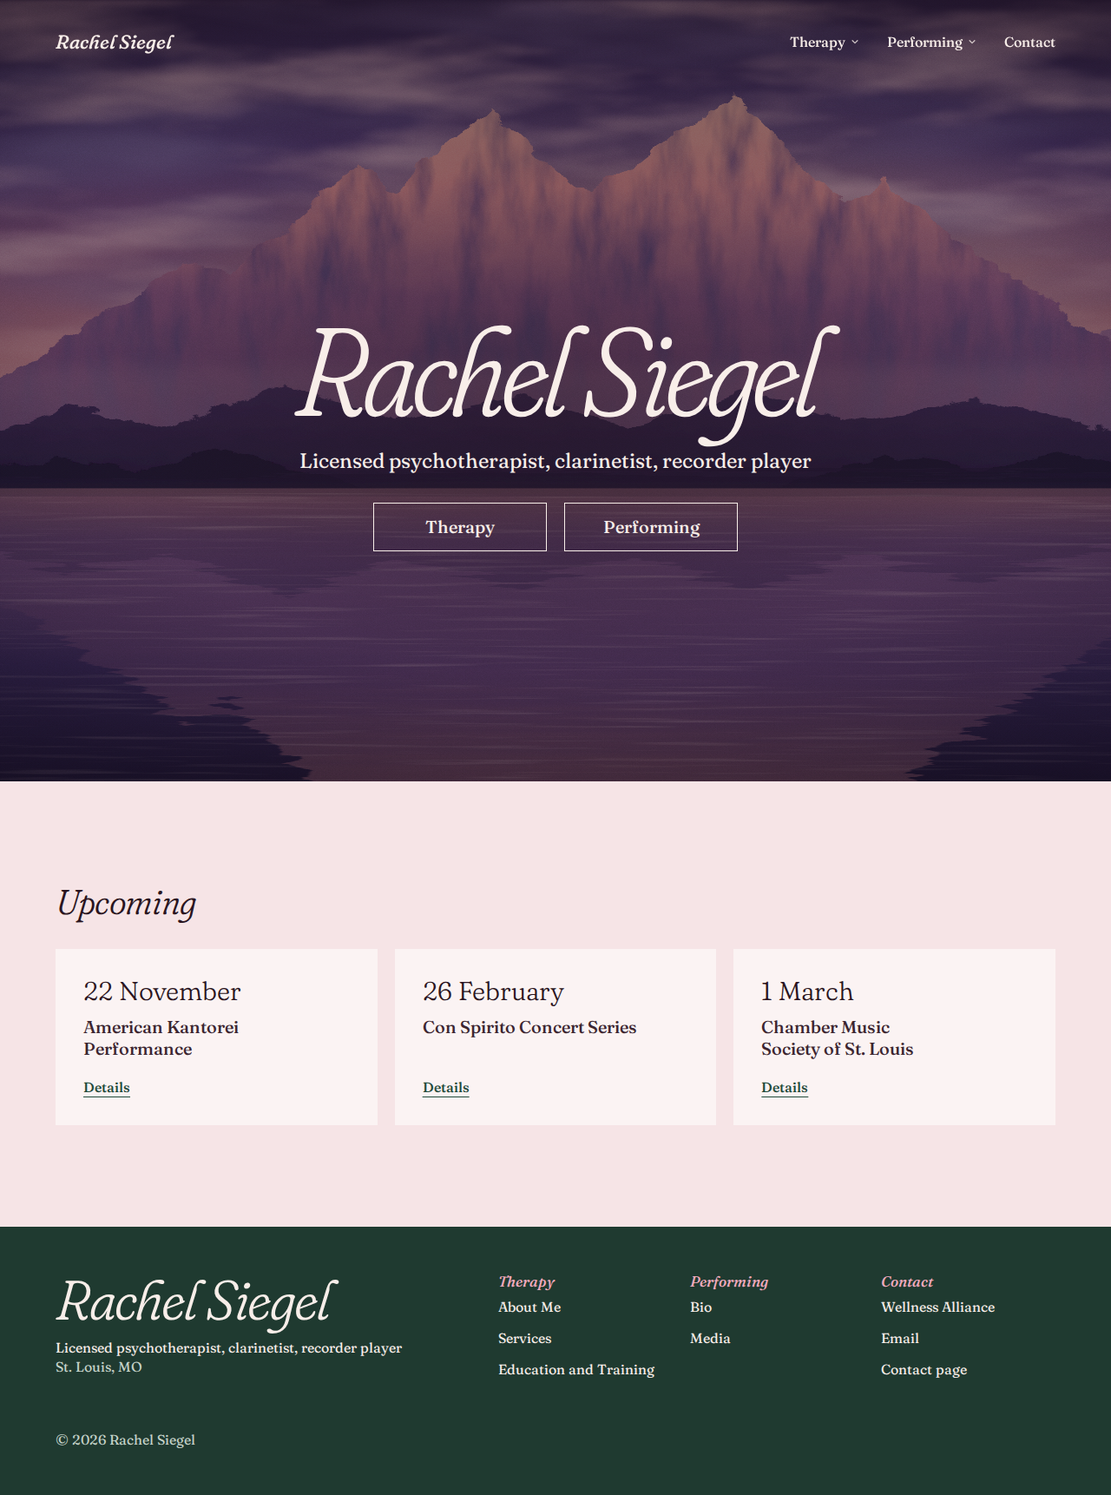
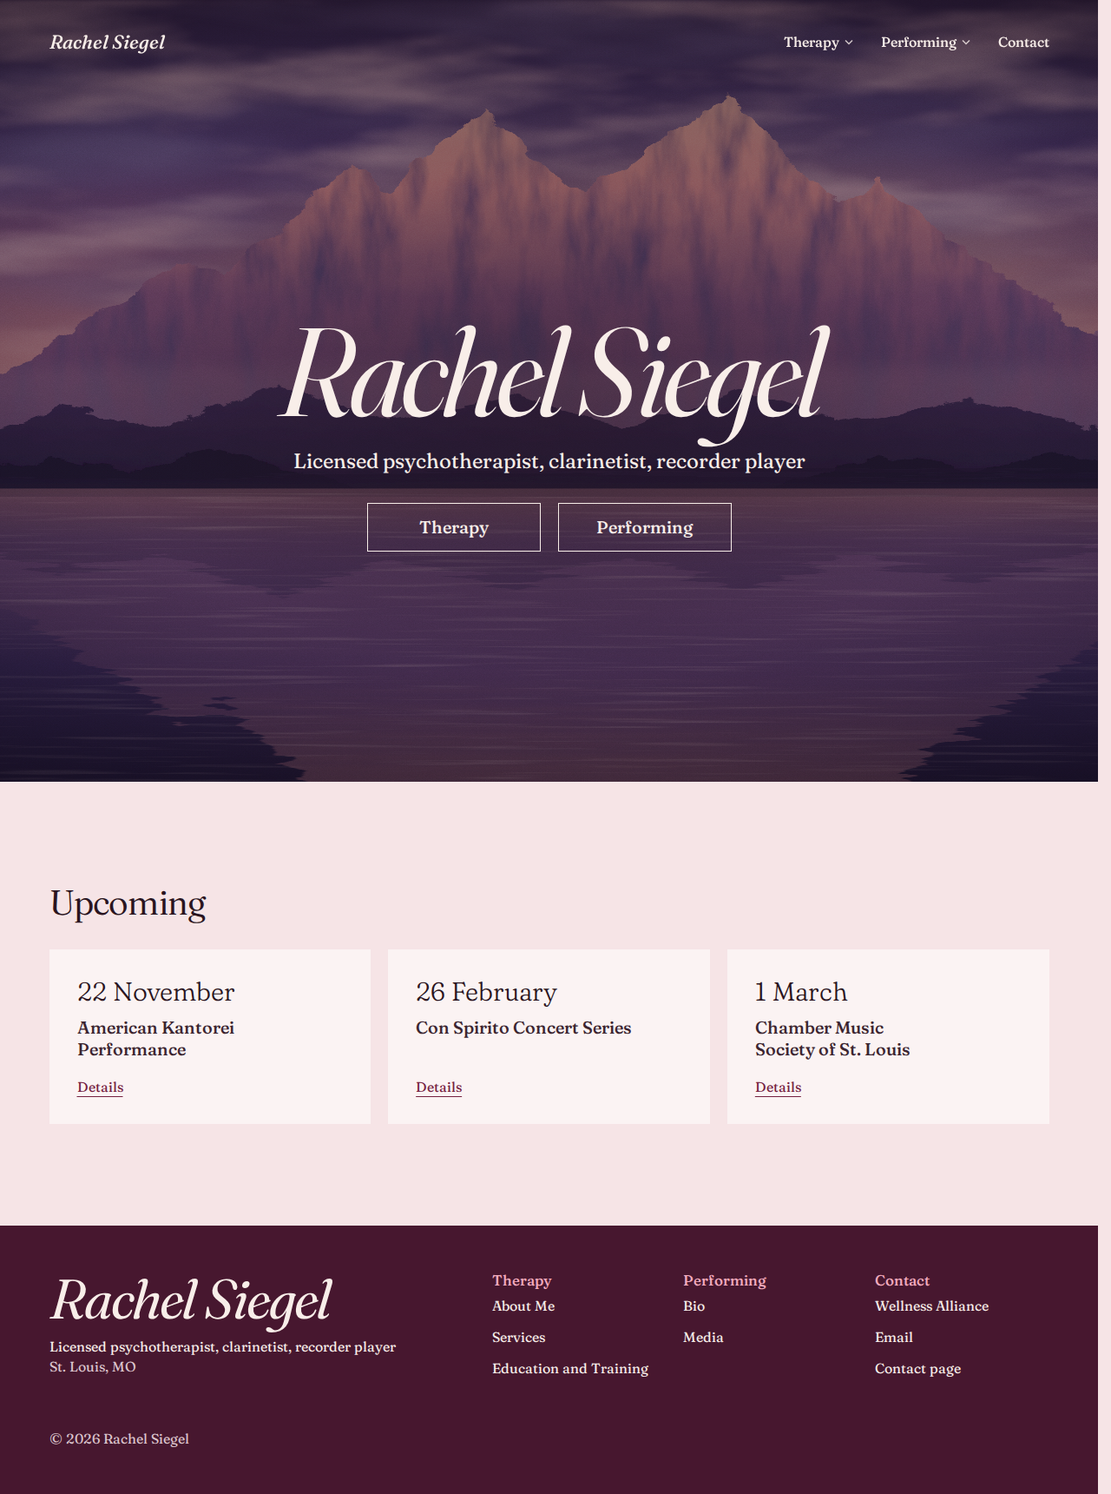
Design direction: Mauve & wine (Playtest #62 tuning)
The human picked Mauve and wine from three live palettes: no green left,
calmer italics (WONK 0, SOFT 0, italic only for the name, leads and pull
quote), and a hairline in place of the dotted rule.

diff --git a/docs/design.md b/docs/design.md
@@ -1,13 +1,13 @@
 # Design reference
 
-The design of Spec #26, "Blossom, one layout": chosen by the human from live prototypes, built by the Editor, and checked by the Verifier. Each Build Brief cites the sections its slice builds, and its values are exact. A slice that needs a value this file doesn't give asks the Driver, who adds it here, rather than inventing one. The Board in `docs/design/board/` shows Home and About Me at 390 and 1280 px, light and dark.
+The design of Spec #26, "Blossom, one layout", with the palette, italics and separator the human chose in Playtest #62 ("Mauve and wine"): chosen by the human from live prototypes, built by the Editor, and checked by the Verifier. Each Build Brief cites the sections its slice builds, and its values are exact. A slice that needs a value this file doesn't give asks the Driver, who adds it here, rather than inventing one. The Board in `docs/design/board/` shows Home and About Me at 390 and 1280 px, light and dark.
 
 Principles, in order:
 
 1. **One layout.** Every page is built only from the layout contract (§3): one column, five spacing values, a fixed set of components. No page sets a margin, a padding or a gap of its own. Text never shifts sideways between pages.
 2. **Nothing sits in half a page alone.** The human's rule: "No reason to only be half the page if there isn't another half of the page." A block with nothing beside it fills its column or is centred.
 3. **Readable.** WCAG 2.2 AA in both palettes, a 65ch measure, no one-word lines in labels.
-4. **Soft type, quiet surfaces.** Fraunces alone, soft and partly italic; one evergreen band (the footer); cards that "stand out, but don't pop too much".
+4. **Soft type, quiet surfaces.** Fraunces alone, soft, italic only for the name, the leads and the pull quote; one wine band (the footer); cards that "stand out, but don't pop too much".
 5. **Honest.** No decoration that carries no information: no eyebrows, no arrows on links, no scroll reveals.
 
 ## 1. Colour tokens
@@ -16,72 +16,72 @@ CSS custom properties on `:root`, each written with `light-dark(<light>, <dark>)
 
 | Token | Light | Dark | Use |
 |---|---|---|---|
-| `bg` | `#f6e4e6` | `#17302a` | page background |
-| `surface` | `#fbf3f3` | `#1e3b33` | Upcoming cards, pull quote, dropdown panel, form fields |
-| `tint` | `#eed3d7` | `#27483f` | list panel, hover fill of cards and dropdown items |
+| `bg` | `#f6e4e6` | `#24131c` | page background |
+| `surface` | `#fbf3f3` | `#2f1b26` | Upcoming cards, pull quote, dropdown panel, form fields |
+| `tint` | `#eed3d7` | `#3d2431` | list panel, hover fill of cards and dropdown items |
 | `ink` | `#3b2530` | `#eadfd9` | body text |
 | `heading` | `#2a1420` | `#f7eee9` | headings, leads, the page-ground button |
-| `muted` | `#6a525d` | `#b9c4bc` | captions, "Coming soon", "(required)" |
-| `link` | `#1f4a3a` | `#f7eee9` | links in copy |
-| `accent` | `#2b6044` | `#f2abbe` | current-nav underline, focus ring, list bullets, mobile-menu group labels |
+| `muted` | `#6a525d` | `#c6b3ba` | captions, "Coming soon", "(required)" |
+| `link` | `#75203f` | `#f7dce4` | links in copy |
+| `accent` | `#853a62` | `#f2abbe` | current-nav underline, focus ring (outside the hero and the footer), list bullets, mobile-menu group labels |
 | `error` | `#8f1836` | `#ffb4c0` | form error text and invalid-field border |
-| `ornament` | `#d98fa3` | `#5e8a6f` | the dotted rule, the photo frame's line (decorative, never text) |
-| `line` | `#e3c9ce` | `#2c4a41` | hairlines: rows, the scrolled header's edge (decorative) |
-| `line-strong` | `#8f7480` | `#7fa091` | outlines of controls: form fields, dropdown panel (needs 3:1) |
-| `band` | `#1f3a30` | `#0f231d` | the footer band |
-| `on-band` | `#f8eee9` | `#f8eee9` | text on `band` |
-| `on-band-muted` | `#c5d3c9` | `#c5d3c9` | secondary text on `band` |
+| `ornament` | `#c98aa6` | `#8b5a72` | the hairline under a lead, the photo frame's line (decorative, never text) |
+| `line` | `#e3c9ce` | `#42293a` | hairlines: rows, the scrolled header's edge (decorative) |
+| `line-strong` | `#8f7480` | `#a78895` | outlines of controls: form fields, dropdown panel (needs 3:1) |
+| `band` | `#47172f` | `#47172f` | the footer band: wine, the same in both schemes |
+| `on-band` | `#f8eee9` | `#f8eee9` | text on `band`, and the focus ring in the footer |
+| `on-band-muted` | `#dcc5cd` | `#dcc5cd` | secondary text on `band` |
 | `band-accent` | `#f2abbe` | `#f2abbe` | footer column labels |
 | `plum` | `#24121c` | `#24121c` | the hero's ground and scrim colour, hover text of hero buttons |
 | `on-image` | `#f8eee9` | `#f8eee9` | text and outlines over the hero image and video stills |
-| `poster` | `#1f3a30` | `#1f3a30` | ground behind a video still while it loads |
+| `poster` | `#47172f` | `#47172f` | ground behind a video still while it loads |
 
 Measured WCAG 2.x ratios (each must stay at or above "Needs"):
 
 | Pair | Light | Dark | Needs |
 |---|---|---|---|
-| `ink` on `bg` / `surface` / `tint` | 11.5 / 12.9 / 10.0 | 10.8 / 9.3 / 7.7 | 4.5 |
-| `heading` on `bg` / `surface` / `tint` | 14.1 / 15.8 / 12.2 | 12.3 / 10.6 / 8.8 | 4.5 |
-| `muted` on `bg` / `surface` | 5.8 / 6.5 | 7.8 / 6.8 | 4.5 |
-| `link` on `bg` / `surface` | 8.2 / 9.2 | 12.3 / 10.6 | 4.5 |
-| `accent` on `bg` / `surface` / `tint` | 6.0 / 6.7 / 5.2 | 7.6 / 6.6 / 5.4 | 4.5 (text), 3 (ring, bullets) |
-| `error` on `bg` / `surface` | 7.3 / 8.2 | 8.4 / 7.3 | 4.5 |
-| `bg` on `heading` (button hover, carousel arrows) | 14.1 | 12.3 | 4.5 |
-| `on-band` / `on-band-muted` / `band-accent` on `band` | 10.8 / 7.9 / 6.6 | 14.4 / 10.6 / 8.9 | 4.5 |
+| `ink` on `bg` / `surface` / `tint` | 11.5 / 12.9 / 10.0 | 13.5 / 12.3 / 10.7 | 4.5 |
+| `heading` on `bg` / `surface` / `tint` | 14.1 / 15.8 / 12.2 | 15.5 / 14.1 / 12.3 | 4.5 |
+| `muted` on `bg` / `surface` | 5.8 / 6.5 | 8.9 / 8.1 | 4.5 |
+| `link` on `bg` / `surface` | 8.4 / 9.4 | 13.8 / 12.5 | 4.5 |
+| `accent` on `bg` / `surface` / `tint` | 6.2 / 6.9 / 5.4 | 9.6 / 8.7 / 7.6 | 4.5 (text), 3 (ring, bullets) |
+| `error` on `bg` / `surface` | 7.3 / 8.2 | 10.6 / 9.6 | 4.5 |
+| `bg` on `heading` (button hover, carousel arrows) | 14.1 | 15.5 | 4.5 |
+| `on-band` / `on-band-muted` / `band-accent` on `band` | 12.9 / 9.0 / 7.9 | 12.9 / 9.0 / 7.9 | 4.5 |
 | `on-image` on `plum` | 15.6 | 15.6 | 4.5 |
-| `line-strong` on `bg` / `surface` | 3.4 / 3.9 | 4.9 / 4.2 | 3 |
+| `line-strong` on `bg` / `surface` | 3.4 / 3.9 | 5.6 / 5.1 | 3 |
 
 Rules:
 - Text uses only `ink`, `heading`, `muted`, `link`, `accent` or `error` on `bg`, `surface` or `tint`; `on-band`, `on-band-muted` or `band-accent` on `band`; `on-image` over the hero and video stills. No other pairing, and no opacity on text.
-- `ornament` and `line` are decorative only (`ornament` on `bg` is 2.0:1 in light): never text, never the only sign of a state.
+- `ornament` and `line` are decorative only (`ornament` on `bg` is 2.2:1 in light, 3.2:1 in dark): never text, never the only sign of a state.
 - **Hero scrim.** Two layers over the image, both in `plum` (`rgb(36 18 28)`): `radial-gradient(ellipse 75% 55% at 50% 52%, rgb(36 18 28 / 0.42), transparent 100%)` above `linear-gradient(to bottom, rgb(36 18 28 / 0.6) 0%, rgb(36 18 28 / 0.3) 24%, rgb(36 18 28 / 0.3) 100%)`. Every piece of text and every control over the image (brand, nav labels, menu button, name, tagline, both buttons) must reach 4.5:1 against the lightest pixel behind its box, scrim included, at 390×844, 768×1024, 1280×900 and 1920×1080. Measured on the placeholder: lowest 5.49 (a nav label at 1920), the name 7.89–8.58, the tagline 7.48–13.87, the buttons 7.03–8.22. A new hero photo is re-measured; if it fails, the scrim darkens, the text does not change.
 - The token test (#27) computes every pair above from the CSS and fails under its minimum.
 
 ## 2. Typography
 
-One family: **Fraunces**, variable on `opsz`, `wght`, `SOFT` (0–100) and `WONK`, upright and italic, from `src/app/fonts`. `font-optical-sizing: auto` (no `opsz` set by hand). Copy is set at `"SOFT" 60`; display type at `"SOFT" 100`. Source Sans 3 is not used. Fallback stack: `Georgia, serif`.
+One family: **Fraunces**, variable on `opsz`, `wght`, `SOFT` (0–100) and `WONK`, upright and italic, from `src/app/fonts`. `font-optical-sizing: auto` (no `opsz` set by hand). Copy is set at `"SOFT" 60`; upright display type (`h1`, `event-date`, `sheet-link`) at `"SOFT" 100`; the italic roles and `h2` at `"SOFT" 0, "WONK" 0`. Every italic sets `"WONK" 0`, so none shows the font's swashed forms (the curled "h"). Italic is kept for the name (`display`, `brand`, `footer-name`), the lead, the pull quote and a `cite`; nothing else is italic. Source Sans 3 is not used. Fallback stack: `Georgia, serif`.
 
 | Role | Size | Style, weight, axes | Line height | Tracking | Colour |
 |---|---|---|---|---|---|
-| `display` (Home `h1`) | `clamp(3.75rem, 1.5rem + 9.4vw, 9.5rem)` | italic 300, `"SOFT" 100` | 0.92 | -0.035em | `on-image` |
+| `display` (Home `h1`) | `clamp(3.75rem, 1.5rem + 9.4vw, 9.5rem)` | italic 380, `"SOFT" 0, "WONK" 0` | 0.92 | -0.035em | `on-image` |
 | `h1` (page title) | `clamp(3rem, 1.7rem + 5.4vw, 6rem)` | upright 300, `"SOFT" 100, "WONK" 1` | 1 | -0.03em | `heading` |
-| `h2` (section heading) | `clamp(1.75rem, 1.3rem + 1.9vw, 2.5rem)` | italic 300, `"SOFT" 100` | 1.1 | -0.02em | `heading` |
-| `lead` (statement) | `clamp(1.375rem, 1.15rem + 1vw, 2rem)` | italic 300, `"SOFT" 100` | 1.3 | 0 | `heading` |
-| `quote` (pull quote) | `clamp(1.5rem, 1.1rem + 3.2cqi, 3rem)`, `cqi` of the quote's own box | italic 300, `"SOFT" 100` | 1.14 | -0.02em | `heading` |
+| `h2` (section heading) | `clamp(1.75rem, 1.3rem + 1.9vw, 2.5rem)` | upright 350, `"SOFT" 0, "WONK" 0` | 1.1 | -0.02em | `heading` |
+| `lead` (statement) | `clamp(1.375rem, 1.15rem + 1vw, 2rem)` | italic 380, `"SOFT" 0, "WONK" 0` | 1.3 | 0 | `heading` |
+| `quote` (pull quote) | `clamp(1.5rem, 1.1rem + 3.2cqi, 3rem)`, `cqi` of the quote's own box | italic 380, `"SOFT" 0, "WONK" 0` | 1.14 | -0.02em | `heading` |
 | `body` | `clamp(1.0625rem, 1rem + 0.3vw, 1.1875rem)` | upright 400, `"SOFT" 60` | 1.7 | 0 | `ink` |
 | `list`, `rows` | body size | upright 400, `"SOFT" 60` | 1.4 | 0 | `ink` (`heading` in the panel) |
 | `card-title` (event and video titles) | `1.25rem` | upright 500, `"SOFT" 60` | 1.25 | 0 | `ink` in an event card, `heading` under a video |
 | `event-date` | `1.875rem` | upright 300, `"SOFT" 100`, `font-variant-numeric: lining-nums` | 1.1 | 0 | `heading` |
 | `hero-tag` | `clamp(1.1875rem, 1.05rem + 0.6vw, 1.5rem)` | upright 400, `"SOFT" 60` | 1.4 | 0 | `on-image` |
 | `button` (hero buttons, Send) | `1.25rem` | upright 500, `"SOFT" 60` | 1 | 0 | see §5 |
-| `brand` (header) | `1.375rem` | italic 500, `"SOFT" 100` | 1 | 0 | `heading`, `on-image` over the hero |
+| `brand` (header) | `1.375rem` | italic 500, `"SOFT" 0, "WONK" 0` | 1 | 0 | `heading`, `on-image` over the hero |
 | `nav` (tabs), dropdown items | `1rem` | upright 500 (tabs), 400 (items), `"SOFT" 60` | 1 | 0 | `heading` (tabs), `ink` (items) |
 | `sheet-link` (mobile menu) | `2rem` | upright 300, `"SOFT" 100` | 1.1 | 0 | `heading` |
-| `label` (footer column, mobile-menu group) | `1.0625rem` | italic 500, `"SOFT" 60` | 1.3 | 0 | `band-accent` in the footer, `accent` in the menu |
-| `footer-name` | `clamp(2.5rem, 1.8rem + 3vw, 4rem)` | italic 300, `"SOFT" 100` | 1 | -0.03em | `on-band` |
+| `label` (footer column, mobile-menu group) | `1.0625rem` | upright 500, `"SOFT" 60, "WONK" 0` | 1.3 | 0 | `band-accent` in the footer, `accent` in the menu |
+| `footer-name` | `clamp(2.5rem, 1.8rem + 3vw, 4rem)` | italic 380, `"SOFT" 0, "WONK" 0` | 1 | -0.03em | `on-band` |
 | `small` (footer text, captions, event place, error text, Details link) | `1rem` | upright 400 (error text 500) | 1.4 | 0 | per context |
 
-Links in copy: `link` colour, weight 500, `text-decoration: underline; text-decoration-thickness: 1px; text-underline-offset: 0.3em`; hover thickness 2px. A link inside a lead keeps the lead's weight (300).
+Links in copy: `link` colour, weight 500, `text-decoration: underline; text-decoration-thickness: 1px; text-underline-offset: 0.3em`; hover thickness 2px. A link inside a lead keeps the lead's weight (380).
 
 **Wrapping rules** (the human called wrapping out; each is checked, §3):
 
@@ -140,7 +140,7 @@ Every page is built only from these. Each carries its data attribute, which the 
 | **Switcher** | `data-switcher="pair"` / `"label"` / `"run"` | Exactly two children, each in a `div`: `display: grid; grid-template-columns: repeat(auto-fit, minmax(min(100%, var(--switch-min)), 1fr)); column-gap: var(--space-block)`. Two equal halves or one column, never a half-empty row. `pair`: two blocks, `row-gap: var(--space-block)` when stacked. `label`: a SectionHeading beside its content, no row gap (stacked, the heading's own space is the gap). `run`: one passage of copy in two halves, `row-gap: var(--space-flow)` when stacked. |
 | **Center** | `data-center` | One centred column: `inline-size: 100%; max-inline-size: var(--measure); margin-inline: auto; text-align: center`. For a page with nothing to set beside its copy. |
 | **Prose** | `data-prose="start"` / `"center"` | Running copy: `max-inline-size: var(--measure)`; children separated by `margin-block-start: var(--space-flow)`; paragraphs `text-wrap: wrap`, last two words tied. `center` adds `inline-size: 100%; margin-inline: auto; text-align: center`, for copy with nothing beside it. |
-| **Lead** | `data-lead` | A statement in `lead` type, last two words tied; optionally the dotted rule under it (§5). |
+| **Lead** | `data-lead` | A statement in `lead` type, last two words tied; optionally the hairline under it (§5). |
 | **PullQuote** | `data-quote` | The site's one quote style (§5). |
 | **Photo** | `data-photo` | The one photo slot (§5). It fills the Sidebar's slot and stays inside the column. |
 | **List** | `data-list="plain"` / `"panel"` | Bulleted list (§5). |
@@ -185,7 +185,7 @@ There is very little, and none of it is triggered by scrolling into view.
 
 ## 5. Components
 
-**Focus ring.** `outline: 2px solid var(--accent); outline-offset: 3px`, on `:focus-visible` only. Over the hero (including the header while it is transparent) and in the footer the ring is `on-image`. Inside the dropdown panel it is `accent` with `outline-offset: -3px`, so it is never clipped and never overlaps the next item; on the Upcoming row, `outline-offset: -2px`.
+**Focus ring.** `outline: 2px solid var(--accent); outline-offset: 3px`, on `:focus-visible` only. Over the hero (including the header while it is transparent) the ring is `on-image`; in the footer it is `on-band`. Inside the dropdown panel it is `accent` with `outline-offset: -3px`, so it is never clipped and never overlaps the next item; on the Upcoming row, `outline-offset: -2px`.
 
 **Buttons.** Square, `1px` outline, transparent fill, `button` type, `block-size: 3.5rem`, text centred, no padding (fixed width).
 - *Hero button* (on the image): outline and text `on-image`; hover fills `on-image` with `plum` text. Width: `flex: 0 0 12.5rem` from 30rem (480 px); below, `flex: 1 1 0; max-inline-size: 12.5rem`, so the two share the row.
@@ -194,9 +194,9 @@ There is very little, and none of it is triggered by scrolling into view.
 - *Carousel arrow:* see §8.
 - No "→" or "↗" on any link or button.
 
-**Lead and the dotted rule.** A `p` in `lead` type. With the rule (About Me only): under the text, `margin-block-start: var(--space-flow)`, an inline SVG `132 × 12`, `aria-hidden`, filled `ornament`: the recorder's finger holes as circles, five of radius 4.25 at x = 6, 24, 42, 62, 80 and four of radius 2.6 at x = 98.5, 105.5, 119.5, 126.5, all at y = 6. Left-aligned with the text.
+**Lead and the hairline.** A `p` in `lead` type. With the hairline (About Me only): under the text, `margin-block-start: var(--space-flow)`, one `aria-hidden` block `3.5rem` wide and `1px` tall, filled `ornament`, square ends. Left-aligned with the text. It is a separator and nothing else: no dots, no motif.
 
-**Pull quote.** A `figure`, `container-type: inline-size`, `surface` fill, `--radius`, `padding: var(--space-block) var(--space-heading)`, `text-align: center`. The `blockquote` is in `quote` type, `max-inline-size: 22ch`, centred, balanced, its last two words tied. The `figcaption` follows at `margin-block-start: var(--space-flow)`: `small`, `muted`, balanced; a work's title is in `cite`, italic. No quotation-mark ornament, no dash before the name. It is one component at two widths: across the column (About Me) or in the Sidebar's slot (Services).
+**Pull quote.** A `figure`, `container-type: inline-size`, `surface` fill, `--radius`, `padding: var(--space-block) var(--space-heading)`, `text-align: center`. The `blockquote` is in `quote` type, `max-inline-size: 22ch`, centred, balanced, its last two words tied. The `figcaption` follows at `margin-block-start: var(--space-flow)`: `small`, `muted`, balanced; a work's title is in `cite`, italic, `"SOFT" 60, "WONK" 0`. No quotation-mark ornament, no dash before the name. It is one component at two widths: across the column (About Me) or in the Sidebar's slot (Services).
 
 **Photo.** A `figure`: `padding: var(--space-tight)`, `border: 1.5px solid var(--ornament)`, `border-radius: calc(var(--radius) + var(--space-tight))`. The image inside: `inline-size: 100%`, `aspect-ratio: 3 / 4`, `object-fit: cover`, `object-position: 50% 20%`, `border-radius: var(--radius)`. One ratio and one focal point for every portrait, so swapping a photo is swapping a file; nothing in the design depends on a photo's colours or crop. `sizes="(min-width: 640px) 24rem, 100vw"`.
 
@@ -244,7 +244,7 @@ The page is `skip link, header, main, footer` in a flex column of `min-height: 1
 
 **Mobile menu** (below 48rem). The nav is replaced by an icon button, "Menu" (two horizontal lines). It opens a modal `dialog` filling the window, `bg` fill: a head row the header's height holding the brand and a "Close" icon button, then the links. Both rows sit on the same column as the page (`max-inline-size: var(--content-max); padding-inline: var(--gutter)`); the links block has `padding-block: var(--space-heading) var(--space-block)`. Links, left-aligned, `sheet-link` type, `min-height: 3.5rem`: Home; a group "Therapy" (About Me, Services, Education and Training); a group "Performing" (Bio, Media); Contact. Group names are `label` type in `accent`, groups have `margin-block: var(--space-flow)`. The current page is underlined `2px` in `accent`, offset `0.2em`. Choosing a link closes it; the page behind does not scroll; focus stays in the dialog.
 
-**Footer.** The one evergreen band: `band` fill, `on-band` text, `small` type, `padding-block: var(--space-block)`. In its PageShell, a grid with `gap: var(--space-block)`:
+**Footer.** The one wine band: `band` fill, `on-band` text, `small` type, `padding-block: var(--space-block)`. In its PageShell, a grid with `gap: var(--space-block)`:
 - **Brand:** "Rachel Siegel" in `footer-name`; the tagline "Licensed psychotherapist, clarinetist, recorder player" `var(--space-tight)` below; then "St. Louis, MO" in `on-band-muted`, directly under. Both lines balanced.
 - **Three columns**, each a label in `label` type and `band-accent`, then a plain vertical list of links:
   - Therapy: About Me, Services, Education and Training
@@ -290,7 +290,7 @@ A Section (`aria-labelledby` its heading) on Home, Bio and Media, always the las
 **No eyebrows anywhere**: no small label above any `h1` or `h2`. Each inner page starts with its `h1` as a SectionHeading, `--space-heading` under the header. `h1`s are left-aligned, except Contact's.
 
 - **About Me** (`/therapy/about`). Two Sections.
-  1. PhotoPage: `h1` "About Me"; Photo of the therapist headshot; body a Stack (`heading`) of: a Lead **with the dotted rule**, "I believe every person holds the power to transform their life."; then a Prose of the three paragraphs before the list, the specialisations as a List *panel* (six items, one column), and the closing paragraph. The lead is not repeated in the body.
+  1. PhotoPage: `h1` "About Me"; Photo of the therapist headshot; body a Stack (`heading`) of: a Lead **with the hairline**, "I believe every person holds the power to transform their life."; then a Prose of the three paragraphs before the list, the specialisations as a List *panel* (six items, one column), and the closing paragraph. The lead is not repeated in the body.
   2. A Section (`aria-label="A line from Rilke"`) holding the PullQuote across the column, its text set without quotation marks: Let everything happen to you: beauty and terror. Just keep going. No feeling is final. Caption: Rainer Maria Rilke, *Letters to a Young Poet*.
 - **Services** (`/therapy/services`). Three Sections.
   1. Sidebar `trail`: head the `h1` "Services"; body a Prose with the services paragraph, at body size; slot the PullQuote, whose text is: And you may ask yourself, “Well, how did I get here?” (only the inner question is in quotation marks), caption "Talking Heads". On a phone the quote follows the paragraph.
@@ -365,3 +365,32 @@ A Section (`aria-labelledby` its heading) on Home, Bio and Media, always the las
 - Bio: no lead; all paragraphs plain.
 - Media: "Video" (was "Videos") with real YouTube stills; the photo is in the Sidebar slot beside both blocks; "Coming soon" is plain text.
 - Contact: a centred single column with two statements and a new contact form (was two cards). The form's sending needs its own slice.
+
+## Changes in the Playtest #62 tuning
+
+The human kept the layout and asked for a new palette, calmer italics and a plainer separator; they chose "Mauve and wine" from three live directions. No layout, spacing, size or content value changed. The section above is the history of Spec #26 and still names the evergreen palette it introduced; this section replaces it.
+
+**Principles.** Principle 4: "partly italic; one evergreen band" is now "italic only for the name, the leads and the pull quote; one wine band".
+
+**§1 Colour tokens.**
+- No green is left. Changed in light: `link` (`#1f4a3a` → `#75203f`), `accent` (`#2b6044` → `#853a62`), `ornament` (`#d98fa3` → `#c98aa6`), `band` (`#1f3a30` → `#47172f`), `on-band-muted` (`#c5d3c9` → `#dcc5cd`), `poster` (`#1f3a30` → `#47172f`).
+- The dark scheme is a wine dusk, not forest green: `bg`, `surface`, `tint`, `muted`, `link`, `ornament`, `line`, `line-strong`, `band`, `on-band-muted` and `poster` all changed; `ink`, `heading`, `accent`, `error`, `on-band`, `band-accent`, `plum` and `on-image` did not.
+- `link` in dark is its own value (`#f7dce4`), no longer the same as `heading`.
+- `band` is one value in both schemes; in dark it sits a little lighter than `bg` (1.2:1), a raised band rather than a darker one.
+- The footer's focus ring is `on-band` (was `on-image`; the two hold the same value today).
+- Every pair in the contrast table was re-measured.
+
+**§2 Typography.**
+- Every italic sets `"WONK" 0`.
+- `display` and `footer-name`: italic 380, `"SOFT" 0` (were 300, `"SOFT" 100`). `brand`: italic 500, `"SOFT" 0` (was `"SOFT" 100`).
+- `lead` and `quote`: italic 380, `"SOFT" 0` (were 300, `"SOFT" 100`). A link in a lead is 380.
+- `h2`: upright 350, `"SOFT" 0, "WONK" 0` (was italic 300, `"SOFT" 100`).
+- `label`: upright 500 (was italic 500).
+- A `cite` stays italic, at `"SOFT" 60, "WONK" 0`.
+- Unchanged: `h1` (upright 300, `"SOFT" 100, "WONK" 1`) and every other upright role.
+
+**§5 Components.**
+- The dotted rule under About Me's lead (five large and four small dots) is replaced by a hairline, `3.5rem` by `1px`, in `ornament`.
+
+**§6 Shell.**
+- Footer and mobile-menu group labels are upright; the footer band is wine.
